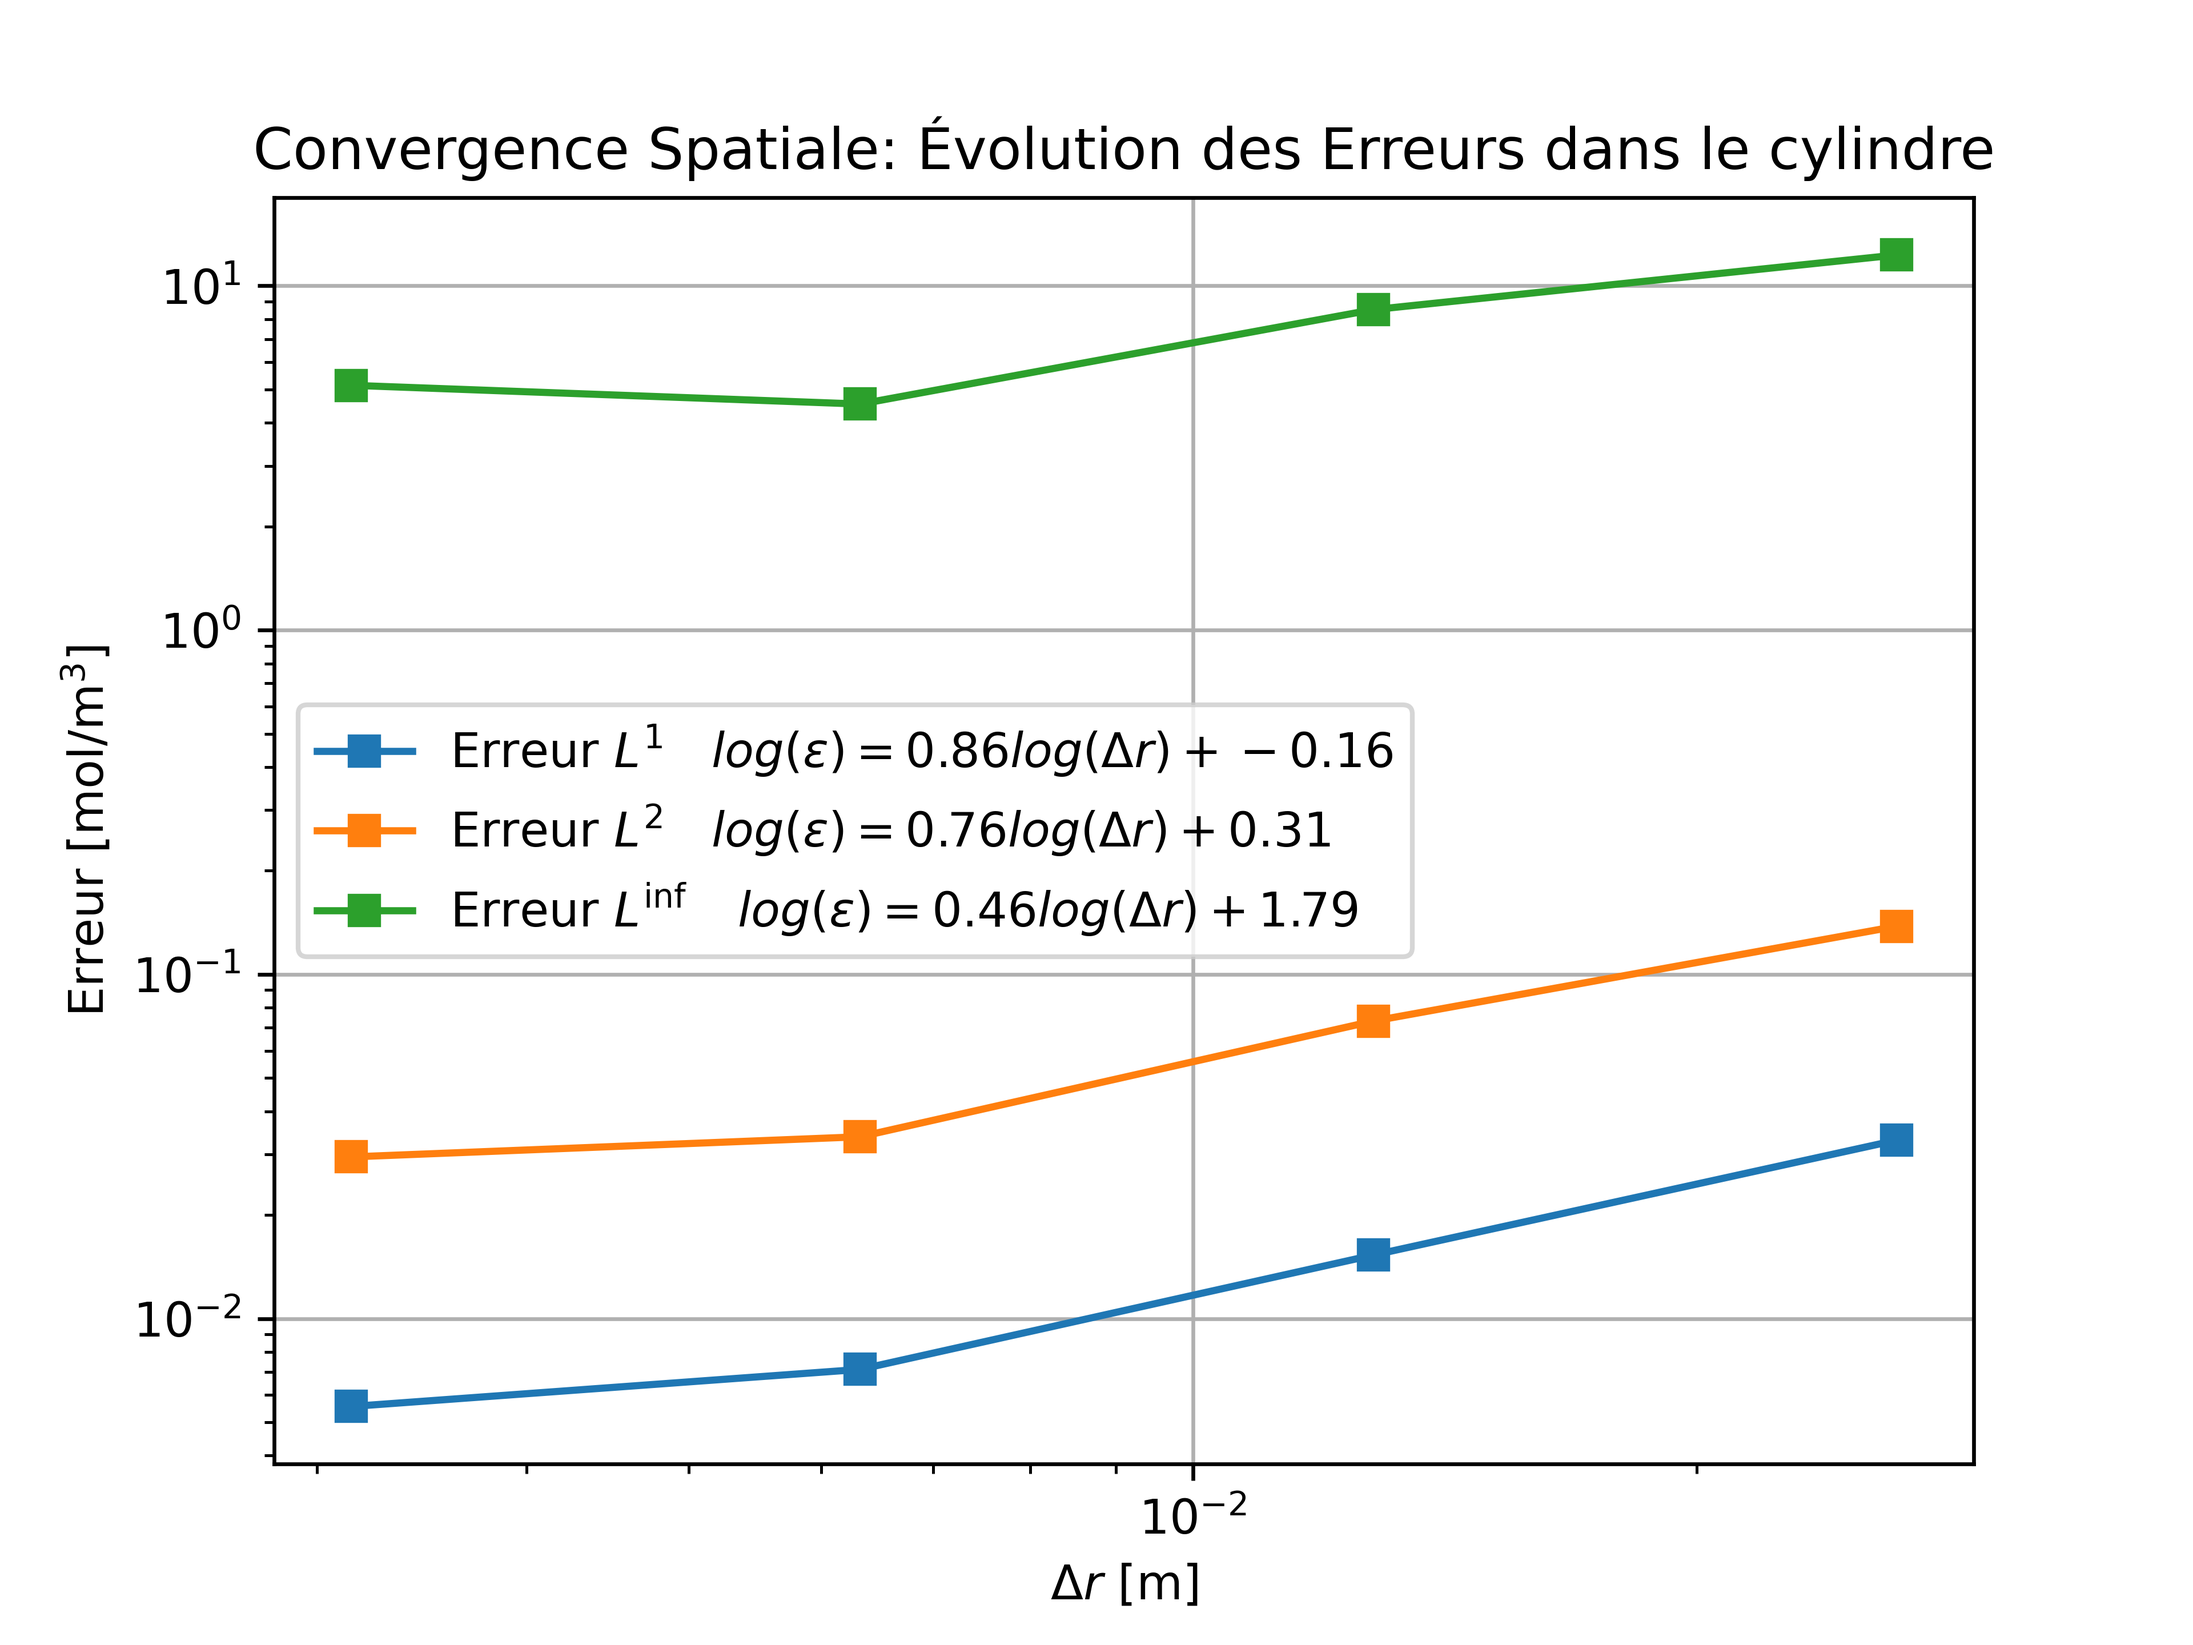
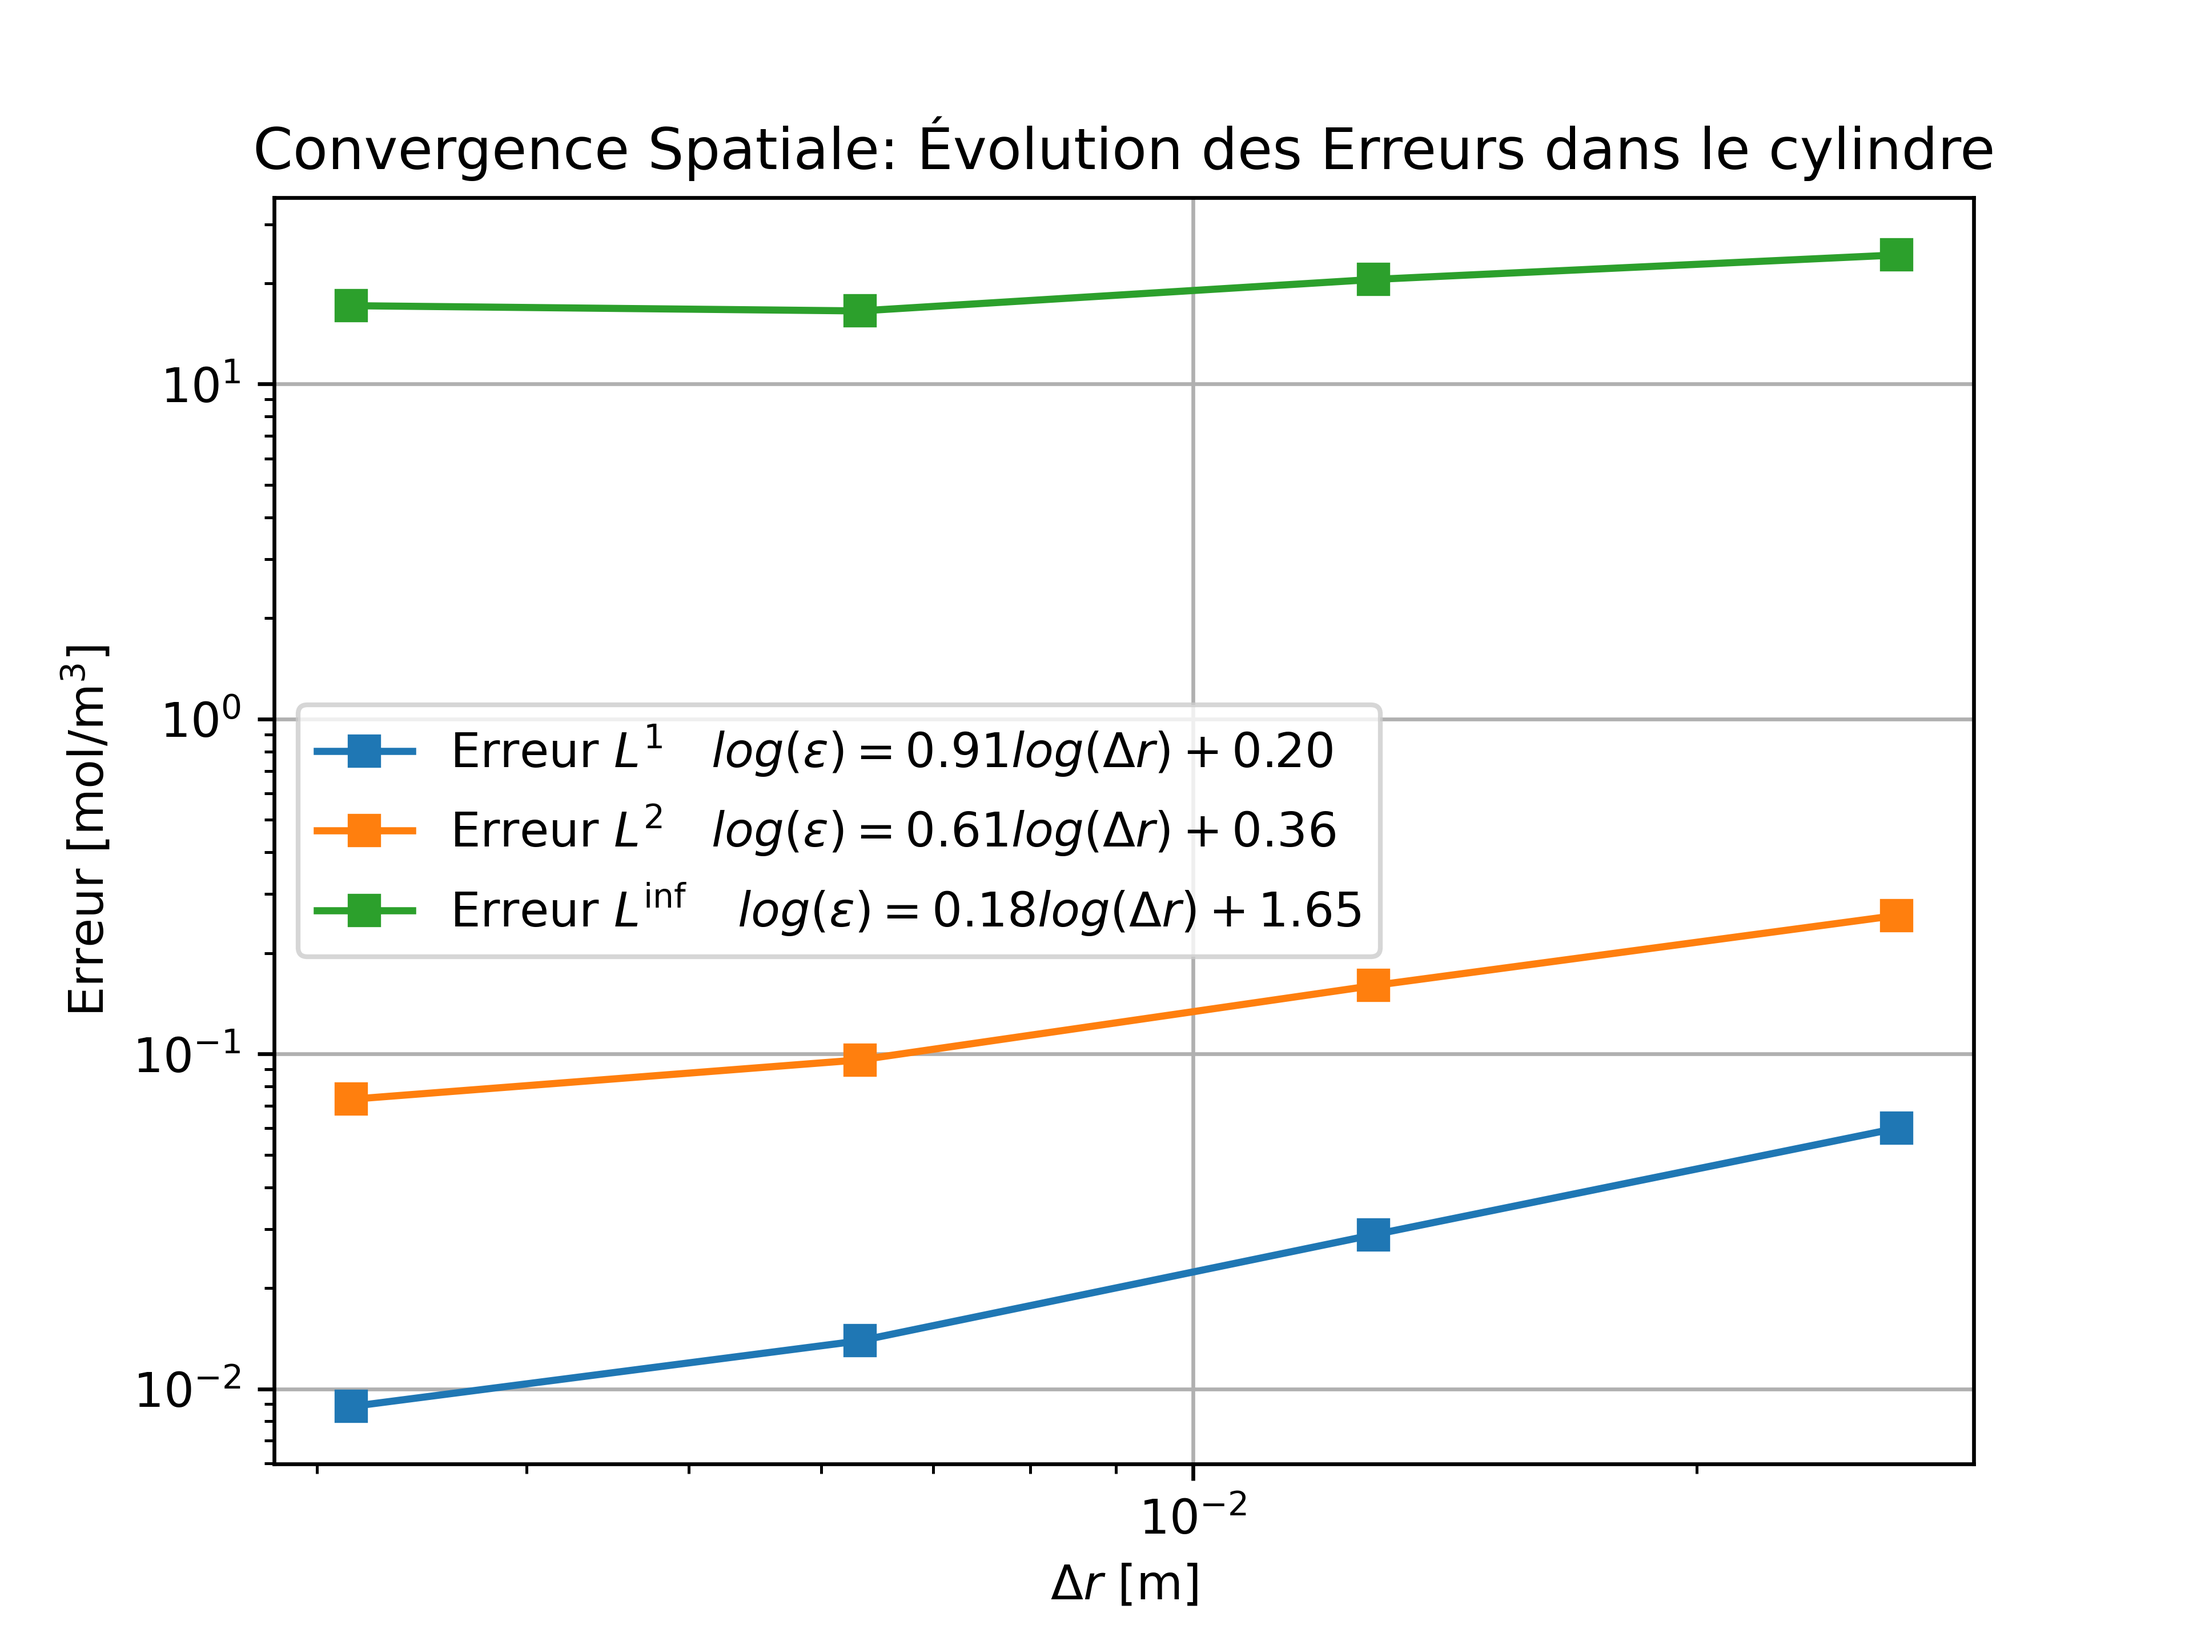
Partial Work

diff --git a/src/devoir2_main.py b/src/devoir2_main.py
@@ -112,7 +112,7 @@ class ParametresSim:
 
 # %% Initialisation des objects contenants les parametres du probleme pour une reaction d'ordre 1
 
-study = "MMS" # Type d'étude: Avec ("MMS") ou sans la MMS ("Classic")
+study = "Classic" # Type d'étude: Avec ("MMS") ou sans la MMS ("Classic")
 prm_rxn_1 = ParametresProb(ordre_de_rxn = 1, p_study_type = study)
 
 # %% Discretisation pour la reaction d'ordre 1
@@ -254,14 +254,15 @@ for prm_simulation in [prm_simulations_mdf2_rxn1_dr]: #prm_simulations_mdf2_rxn1
             err_l1 = 0.0
             err_l2 = 0.0
             err_linf = 0.0
-            solution_numerique = prm_sim.c[1:]
-            solution_analytique = c_analytique[1:]
+            solution_numerique = prm_sim.c#[1:]
+            solution_analytique = c_analytique#[1:]
+            n_temps = len(solution_numerique)
             for c_n, c_a in zip(solution_numerique, solution_analytique):
                 err_l1 += erreur_l1(c_n, c_a)
                 err_l2 += erreur_l2(c_n, c_a)
                 err_linf += erreur_linfty(c_n, c_a)
-            liste_erreur_l1.append(err_l1/len(solution_numerique))
-            liste_erreur_l2.append(err_l2/len(solution_numerique))
+            liste_erreur_l1.append(err_l1/n_temps)
+            liste_erreur_l2.append(err_l2/n_temps)
             liste_erreur_linfty.append(err_linf)
 
         # Comparaison graphique des solutions
@@ -269,17 +270,19 @@ for prm_simulation in [prm_simulations_mdf2_rxn1_dr]: #prm_simulations_mdf2_rxn1
         title_analytique = f"Comparaison_Analytique_mdf{mdf_i}_noeuds{n_noeuds}_dt{'{:.1e}'.format(dt_i)}"
 
         if (ordre_de_rxn == 0):
-            plot_stationnary_compar(prm_sim.mesh, c_analytique[-1], c_numerique[-1, :],
+            plot_stationnary_compar(prm_sim.mesh, c_analytique, c_numerique,
                                     plotting=False,
                                     path_save=path_analyse,
                                     title=title_analytique,
-                                    num_label=f"Solution par Différences Finies (mdf{mdf_i}, n={n_noeuds}, dt={'{:.1e}'.format(dt_i)})")
+                                    num_label=f"Solution par Différences Finies (mdf{mdf_i},"
+                                              f" n={n_noeuds}, dt={'{:.1e}'.format(dt_i)})")
         elif ordre_de_rxn == 1:
             plot_transient_compar(prm_sim.mesh, c_analytique, c_numerique,
                                     plotting=False,
                                     path_save=path_analyse,
                                     title=title_analytique,
-                                    num_label=f"Solution par Différences Finies (mdf{mdf_i}, n={n_noeuds}, dt={'{:.1e}'.format(dt_i)})")
+                                    num_label=f"Solution par Différences Finies (mdf{mdf_i},"
+                                              f" n={n_noeuds}, dt={'{:.1e}'.format(dt_i)})")
 
     # Pour l'affichage graphique
     title_errors = f"erreurs_mdf{mdf_i}"
@@ -299,7 +302,7 @@ for prm_simulation in [prm_simulations_mdf2_rxn1_dr]: #prm_simulations_mdf2_rxn1
                            path_save=path_analyse,
                            title=title_errors)
         # Pour la verification des ordres numeriques
-        type_detude = "espace"
+        type_detude_str = "espace"
     elif prm_simulation[0].study_type == "Temporal":
         # Pour l'exportation des valeurs d'erreur dans un fichier csv
         exported_data = pd.DataFrame({'dt': dt_i, 'L1_error': liste_erreur_l1,
@@ -312,14 +315,15 @@ for prm_simulation in [prm_simulations_mdf2_rxn1_dr]: #prm_simulations_mdf2_rxn1
                            path_save=path_analyse,
                            title=title_errors)
         # Pour la verification des ordres numeriques
-        type_detude = "temps"
+        type_detude_str = "temps"
 
     # Exportation des valeurs d'erreur dans un fichier csv
-    exported_data.to_csv(f"{path_analyse}/erreurs_mdf{mdf_i}_rxn{ordre_de_rxn}_dt{'{:.1e}'.format(dt_i)}.csv", index=False)
+    exported_data.to_csv(f"{path_analyse}/erreurs_mdf{mdf_i}_rxn{ordre_de_rxn}_dt"
+                         f"{'{:.1e}'.format(dt_i)}.csv", index=False)
 
     # Verification des ordres numeriques
     print("****************************************************************************")
-    print(f" CONVERGENCE EN {type_detude.upper()}")
+    print(f" CONVERGENCE EN {type_detude_str.upper()}")
     print("****************************************************************************")
     for name_error, norm in errors_l:
         name_norm = name_error.split()[-1]
@@ -329,6 +333,6 @@ for prm_simulation in [prm_simulations_mdf2_rxn1_dr]: #prm_simulations_mdf2_rxn1
         elif prm_simulation[0].study_type == "Temporal":
             ordre = ordre_convergence(dt, norm, n_fit = n_fit)
             ordre_theorique = 1
-        print(f"L'ordre observe du schema numerique en {type_detude} est {ordre} pour la norme"
-              f" {name_norm}")
-        print(f"L'ordre théorique du schéma en {type_detude} est {ordre_theorique}")
+        print(f"L'ordre observe du schema numerique en {type_detude_str} est {ordre} "
+              f"pour la norme {name_norm}")
+        print(f"L'ordre théorique du schéma en {type_detude_str} est {ordre_theorique}")

diff --git a/src/devoir2_postresults.py b/src/devoir2_postresults.py
@@ -104,6 +104,7 @@ def plot_transient_compar(r_l, comsol_sols, sim_sols,
 
 #%% Video
 
+# def make_film (r, y, c, )
 
 #%% Erreurs
 
